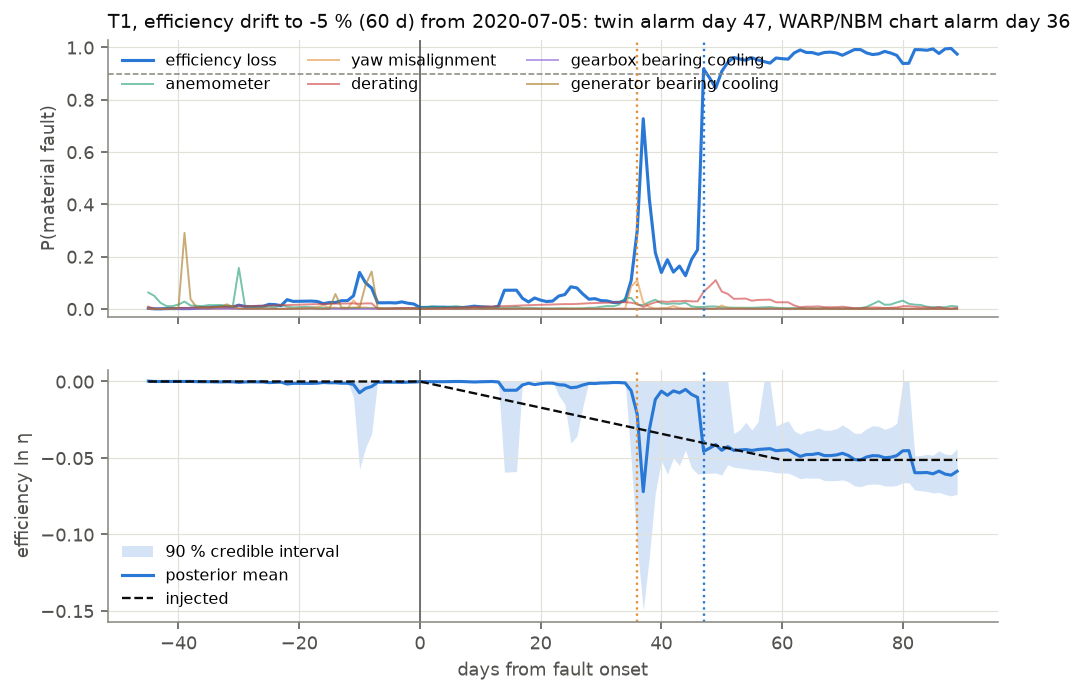
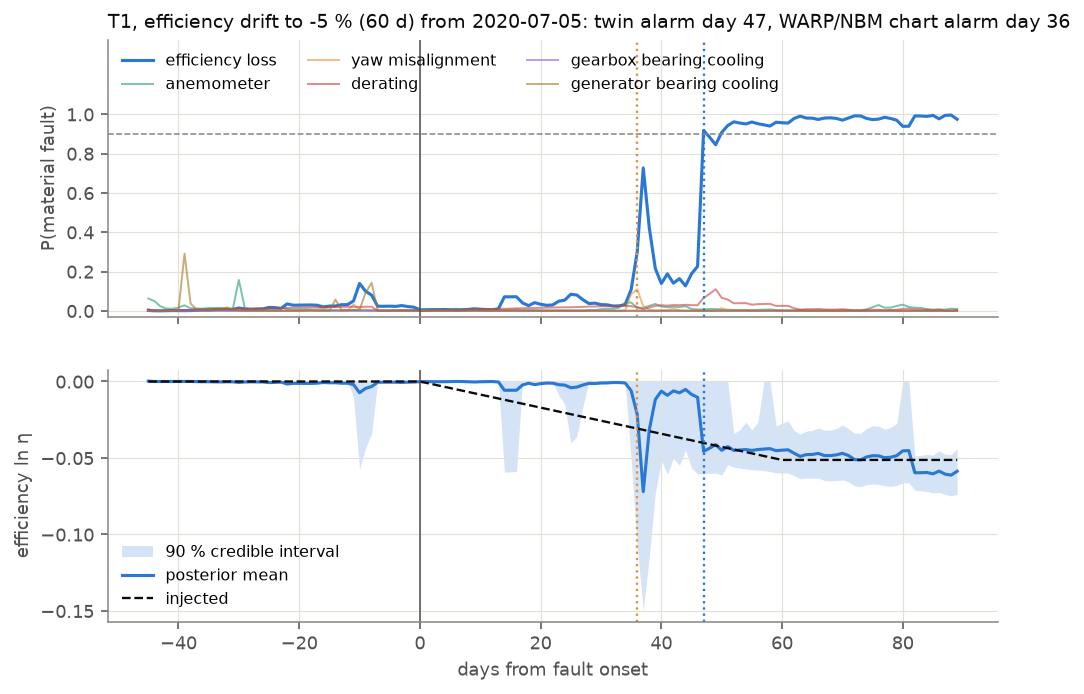
Charts: legends off the data, separated labels, colour bar; no sideways scrolling on a phone
Replays: headroom above the probabilities so the legend no longer sits on the curves. Trade-off: the twin's threshold labels go above-left, the charts' below-right, so neighbouring labels no longer collide. Fleet heatmap: colour bar with label. Dashboard: selects may shrink (a long replay option widened the page to 424 px on a phone), room for the first parameter panel title, and on a phone the waterfall shows only the totals as labels. Layout only; data unchanged.

diff --git a/docs/index.html b/docs/index.html
@@ -36,9 +36,10 @@ p { margin: 0 0 10px; color: var(--ink2); max-width: 900px; }
 .card { background: var(--surface); border: 1px solid var(--border); border-radius: 10px; padding: 16px;
         margin-top: 16px; }
 .controls { display: flex; flex-wrap: wrap; gap: 12px 20px; align-items: center; margin: 8px 0; }
-label { font-size: 14px; color: var(--ink2); display: flex; gap: 8px; align-items: center; }
+label { font-size: 14px; color: var(--ink2); display: flex; gap: 8px; align-items: center; max-width: 100%; min-width: 0; }
 select, button { font: inherit; color: var(--ink); background: var(--surface); border: 1px solid var(--border);
          border-radius: 6px; padding: 4px 10px; }
+select { min-width: 0; max-width: 100%; }  /* long option texts must not widen the page on a phone */
 button { cursor: pointer; }
 input[type=range] { width: min(420px, 60vw); }
 .plot { width: 100%; }
@@ -179,7 +180,7 @@ function drawParams() {
     layout.shapes.push(...eventShapes(t, [faultOf[p.key]], "y" + ax + " domain"));
   });
   layout.xaxis = axis({type: "date", anchor: "y" + n});
-  layout.margin.t = 20;
+  layout.margin.t = 32;  // room for the first panel's title above the plot
   Plotly.react("params", traces, layout, cfg);
 }
 
@@ -194,12 +195,17 @@ function drawWaterfall() {
   const x = ["potential", ...steps.map(s => s[1]), "actual"];
   const y = [w.potential, ...steps.map(s => -w[s[0]]), w.actual];
   const measure = ["absolute", ...steps.map(() => "relative"), "total"];
+  // on a phone the ten bars are too narrow for two-line value labels: totals only, values in the hover
+  const narrow = innerWidth < 600;
   Plotly.react("waterfall", [{type: "waterfall", x: x, y: y, measure: measure,
-    text: y.map((v, i) => i === 0 || i === y.length - 1 ? v.toFixed(0) : v.toFixed(0) + " MWh<br>£" + (v * 50 / 1000).toFixed(1) + "k"),
-    textposition: "outside", connector: {line: {color: css("--axis")}},
+    text: y.map((v, i) => i === 0 || i === y.length - 1 ? v.toFixed(0) :
+      (narrow ? "" : v.toFixed(0) + " MWh<br>£" + (v * 50 / 1000).toFixed(1) + "k")),
+    textposition: "outside", textfont: {size: narrow ? 10 : 12}, connector: {line: {color: css("--axis")}},
     increasing: {marker: {color: css("--good")}}, decreasing: {marker: {color: css("--muted")}},
     totals: {marker: {color: css("--ink2")}}, hovertemplate: "%{x}<br>%{y:.1f} MWh<extra></extra>"}],
-    base({yaxis: axis({title: {text: "MWh"}, range: [w.actual * 0.85, w.potential * 1.05]}), xaxis: axis({})}), cfg);
+    base({margin: {l: 60, r: 20, t: 10, b: narrow ? 110 : 36},
+          yaxis: axis({title: {text: "MWh"}, range: [w.actual * 0.85, w.potential * 1.05]}),
+          xaxis: axis(narrow ? {tickangle: -90} : {})}), cfg);
 }
 
 const qSel = document.getElementById("qdate");

diff --git a/src/wind_bayes_twin/dashboard.html b/src/wind_bayes_twin/dashboard.html
@@ -36,9 +36,10 @@ p { margin: 0 0 10px; color: var(--ink2); max-width: 900px; }
 .card { background: var(--surface); border: 1px solid var(--border); border-radius: 10px; padding: 16px;
         margin-top: 16px; }
 .controls { display: flex; flex-wrap: wrap; gap: 12px 20px; align-items: center; margin: 8px 0; }
-label { font-size: 14px; color: var(--ink2); display: flex; gap: 8px; align-items: center; }
+label { font-size: 14px; color: var(--ink2); display: flex; gap: 8px; align-items: center; max-width: 100%; min-width: 0; }
 select, button { font: inherit; color: var(--ink); background: var(--surface); border: 1px solid var(--border);
          border-radius: 6px; padding: 4px 10px; }
+select { min-width: 0; max-width: 100%; }  /* long option texts must not widen the page on a phone */
 button { cursor: pointer; }
 input[type=range] { width: min(420px, 60vw); }
 .plot { width: 100%; }
@@ -179,7 +180,7 @@ function drawParams() {
     layout.shapes.push(...eventShapes(t, [faultOf[p.key]], "y" + ax + " domain"));
   });
   layout.xaxis = axis({type: "date", anchor: "y" + n});
-  layout.margin.t = 20;
+  layout.margin.t = 32;  // room for the first panel's title above the plot
   Plotly.react("params", traces, layout, cfg);
 }
 
@@ -194,12 +195,17 @@ function drawWaterfall() {
   const x = ["potential", ...steps.map(s => s[1]), "actual"];
   const y = [w.potential, ...steps.map(s => -w[s[0]]), w.actual];
   const measure = ["absolute", ...steps.map(() => "relative"), "total"];
+  // on a phone the ten bars are too narrow for two-line value labels: totals only, values in the hover
+  const narrow = innerWidth < 600;
   Plotly.react("waterfall", [{type: "waterfall", x: x, y: y, measure: measure,
-    text: y.map((v, i) => i === 0 || i === y.length - 1 ? v.toFixed(0) : v.toFixed(0) + " MWh<br>£" + (v * 50 / 1000).toFixed(1) + "k"),
-    textposition: "outside", connector: {line: {color: css("--axis")}},
+    text: y.map((v, i) => i === 0 || i === y.length - 1 ? v.toFixed(0) :
+      (narrow ? "" : v.toFixed(0) + " MWh<br>£" + (v * 50 / 1000).toFixed(1) + "k")),
+    textposition: "outside", textfont: {size: narrow ? 10 : 12}, connector: {line: {color: css("--axis")}},
     increasing: {marker: {color: css("--good")}}, decreasing: {marker: {color: css("--muted")}},
     totals: {marker: {color: css("--ink2")}}, hovertemplate: "%{x}<br>%{y:.1f} MWh<extra></extra>"}],
-    base({yaxis: axis({title: {text: "MWh"}, range: [w.actual * 0.85, w.potential * 1.05]}), xaxis: axis({})}), cfg);
+    base({margin: {l: 60, r: 20, t: 10, b: narrow ? 110 : 36},
+          yaxis: axis({title: {text: "MWh"}, range: [w.actual * 0.85, w.potential * 1.05]}),
+          xaxis: axis(narrow ? {tickangle: -90} : {})}), cfg);
 }
 
 const qSel = document.getElementById("qdate");

diff --git a/src/wind_bayes_twin/report.py b/src/wind_bayes_twin/report.py
@@ -79,7 +79,8 @@ def fig_replay(rp: dict, path: Path):
                  alpha=1 if f == rp["fault"] else 0.6, label=FAULT_LABEL[f])
     ax1.axhline(0.9, color=MUTED, lw=0.8, ls="--")
     ax1.set_ylabel("P(material fault)")
-    ax1.set_ylim(-0.03, 1.03)
+    ax1.set_ylim(-0.03, 1.38)  # headroom: the legend sits above the probabilities, not on them
+    ax1.set_yticks(np.arange(0, 1.01, 0.2))
     ax1.legend(ncol=3, fontsize=8, loc="upper left")
     p = rp["param"]
     truth = np.where(rel < 0, 0.0, rp["truth"] * (np.clip(rel / rp["ramp"], 0, 1) if rp["ramp"] else 1.0))
@@ -182,8 +183,9 @@ def fig_fleet(clean: pd.DataFrame, events: pd.DataFrame, path: Path):
     z = np.array(rows)
     xs = w.index
     fig, ax = plt.subplots(figsize=(10, 7.4))
-    ax.imshow(z, aspect="auto", cmap="Blues", vmin=0, vmax=1, interpolation="nearest",
-              extent=(0, len(xs), len(rows), 0))
+    im = ax.imshow(z, aspect="auto", cmap="Blues", vmin=0, vmax=1, interpolation="nearest",
+                   extent=(0, len(xs), len(rows), 0))
+    fig.colorbar(im, ax=ax, fraction=0.025, pad=0.01, label="weekly maximum P(material fault)")
     ax.set_yticks(np.arange(len(rows)) + 0.5, labels, fontsize=7)
     ticks = [k for k, d in enumerate(xs) if d.month in (1, 7) and d.day <= 7]
     ax.set_xticks(ticks, [xs[k].strftime("%b %Y") for k in ticks])
@@ -234,13 +236,14 @@ def fig_tradeoff(tr: pd.DataFrame, path: Path):
     fig, axes = plt.subplots(1, 2, figsize=(9.6, 3.9), sharey=True)
     for ax, col, title in ((axes[0], "detected", "detected within 90 days"),
                            (axes[1], "right_cause", "detected, first alarm names the right cause")):
-        for sys_name, color, lab in (("twin", TWIN, "Bayesian twin (P threshold)"),
-                                     ("WARP + NBM", CHARTS, "WARP + NBM charts (h x factor)")):
+        # twin labels above-left of the point, chart labels below-right, so the two curves' labels do not collide
+        for sys_name, color, lab, off, ha in (("twin", TWIN, "Bayesian twin (P threshold)", (-4, 2), "right"),
+                                              ("WARP + NBM", CHARTS, "WARP + NBM charts (h x factor)", (3, -9), "left")):
             g = tr[tr["system"] == sys_name].sort_values("false_alarms_per_turbine_year")
             ax.plot(g["false_alarms_per_turbine_year"], g[col] * 100, "o-", color=color, ms=4, lw=1.4, label=lab)
             for _, r in g.iterrows():
                 ax.annotate(f"{r['setting']:g}", (r["false_alarms_per_turbine_year"], r[col] * 100), fontsize=7,
-                            color=color, xytext=(3, -9), textcoords="offset points")
+                            color=color, xytext=off, textcoords="offset points", ha=ha)
         ax.set_xscale("log")
         ax.set_xlabel("false alarms per turbine-year (unmodified 2019-2020)")
         ax.set_title(title, fontsize=10, loc="left")
